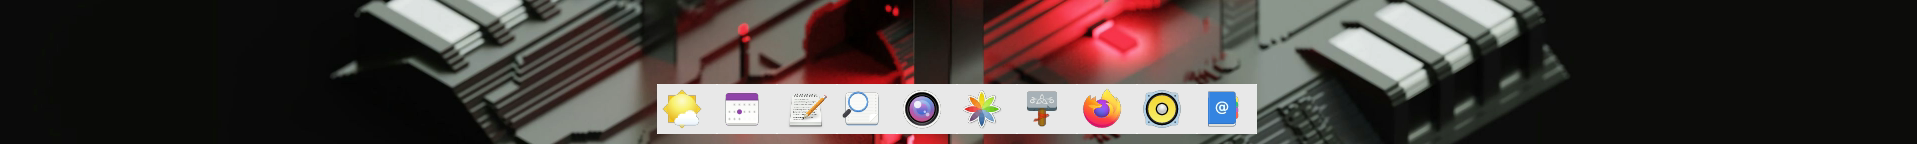
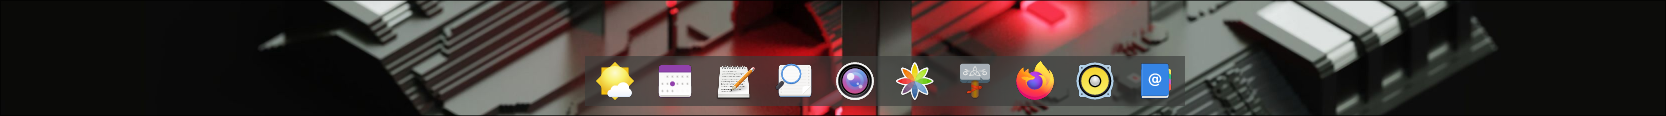
Make bottom panel semi-transparent  (#61)
* feat: add semi-transparent style to the buttons

* feat: make panel transparent

* chore: fix warnings

* chore: update bottom panel image

* chore: rust fmt

diff --git a/iced_examples/bottom_panel/src/applications.rs b/iced_examples/bottom_panel/src/applications.rs
@@ -5,8 +5,9 @@ use gio::{AppLaunchContext, DesktopAppInfo};
 
 use crate::Message;
 use gio::prelude::*;
+use iced::border::Radius;
 use iced::widget::{button, image, row, svg};
-use iced::{Element, Length};
+use iced::{Background, Border, Element, Length, Shadow, Vector};
 
 static DEFAULT_ICON: &[u8] = include_bytes!("../misc/text-plain.svg");
 
@@ -47,17 +48,31 @@ impl App {
         }
     }
 
-    pub fn view(&self, index: usize, selected: bool) -> Element<Message> {
+    pub fn view(&self, index: usize, _selected: bool) -> Element<Message> {
         button(row![self.icon(),].spacing(10))
             .on_press(Message::Launch(index))
             .width(Length::Fill)
             .height(Length::Fill)
-            .style(move |theme, status| {
-                if selected {
-                    button::primary(theme, status)
-                } else {
-                    button::secondary(theme, status)
-                }
+            .style(move |_theme, _status| button::Style {
+                background: Some(Background::Color(iced::Color::from_rgba(
+                    0.188, 0.192, 0.188, 0.65,
+                ))),
+                text_color: iced::Color::WHITE,
+                border: Border {
+                    color: iced::Color::TRANSPARENT,
+                    width: 0.0,
+                    radius: Radius {
+                        top_left: 0.0,
+                        top_right: 0.0,
+                        bottom_right: 0.0,
+                        bottom_left: 0.0,
+                    },
+                },
+                shadow: Shadow {
+                    color: iced::Color::TRANSPARENT,
+                    offset: Vector { x: 0.0, y: 2.0 },
+                    blur_radius: 5.0,
+                },
             })
             .into()
     }

diff --git a/iced_examples/bottom_panel/src/main.rs b/iced_examples/bottom_panel/src/main.rs
@@ -1,10 +1,10 @@
 mod applications;
 use applications::{all_apps, App};
-use iced::widget::row;
-use iced::{Element, Task as Command, Theme};
+use iced::widget::{container, row};
+use iced::{Color, Element, Task as Command, Theme};
 
 use iced_layershell::actions::LayershellCustomActionsWithInfo;
-use iced_layershell::reexport::{Anchor, Layer};
+use iced_layershell::reexport::Anchor;
 use iced_layershell::settings::{LayerShellSettings, Settings};
 use iced_layershell::Application;
 
@@ -13,7 +13,6 @@ fn main() -> Result<(), iced_layershell::Error> {
         layer_settings: LayerShellSettings {
             size: Some((600, 50)),
             anchor: Anchor::Bottom,
-            layer: Layer::Overlay,
             margin: (0, 0, 10, 0),
             ..Default::default()
         },
@@ -67,6 +66,15 @@ impl Application for Panel {
             .map(|(index, app)| app.view(index, false))
             .collect();
 
-        row(bottom_vec).into()
+        let row = row(bottom_vec);
+        container(row).into()
+    }
+
+    fn style(&self, theme: &Self::Theme) -> iced_layershell::Appearance {
+        use iced_layershell::Appearance;
+        Appearance {
+            background_color: Color::TRANSPARENT,
+            text_color: theme.palette().text,
+        }
     }
 }
